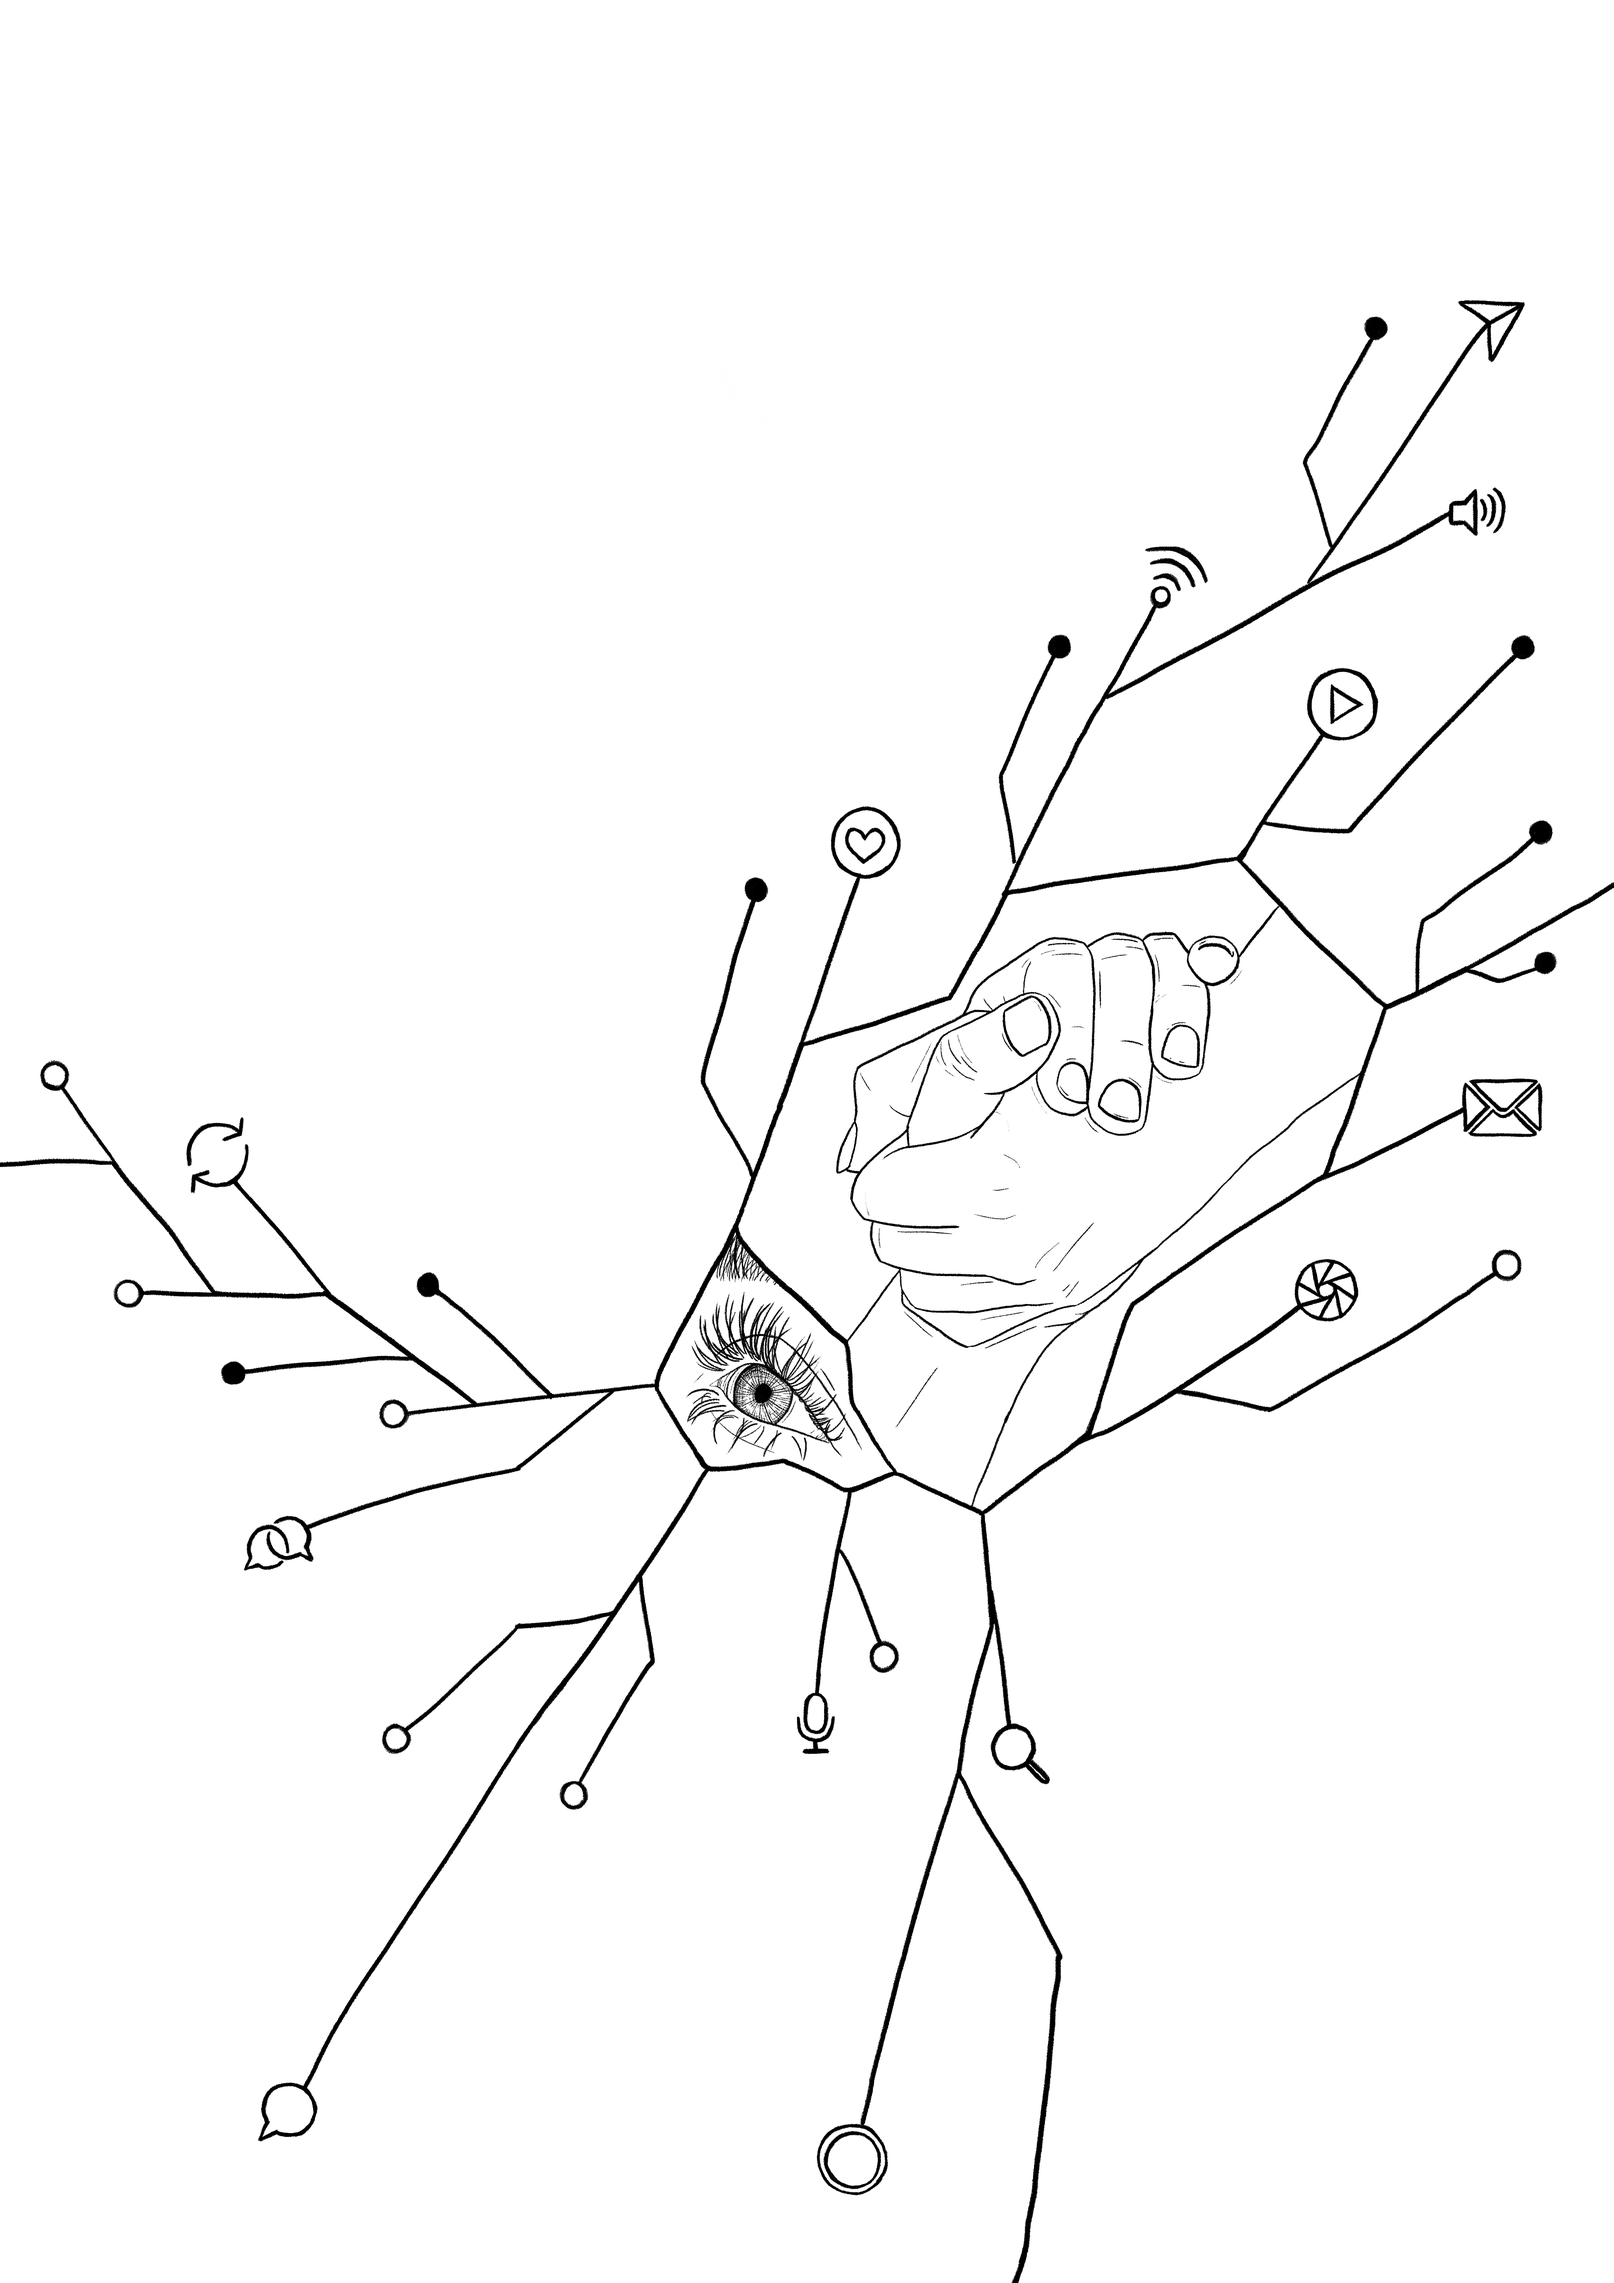
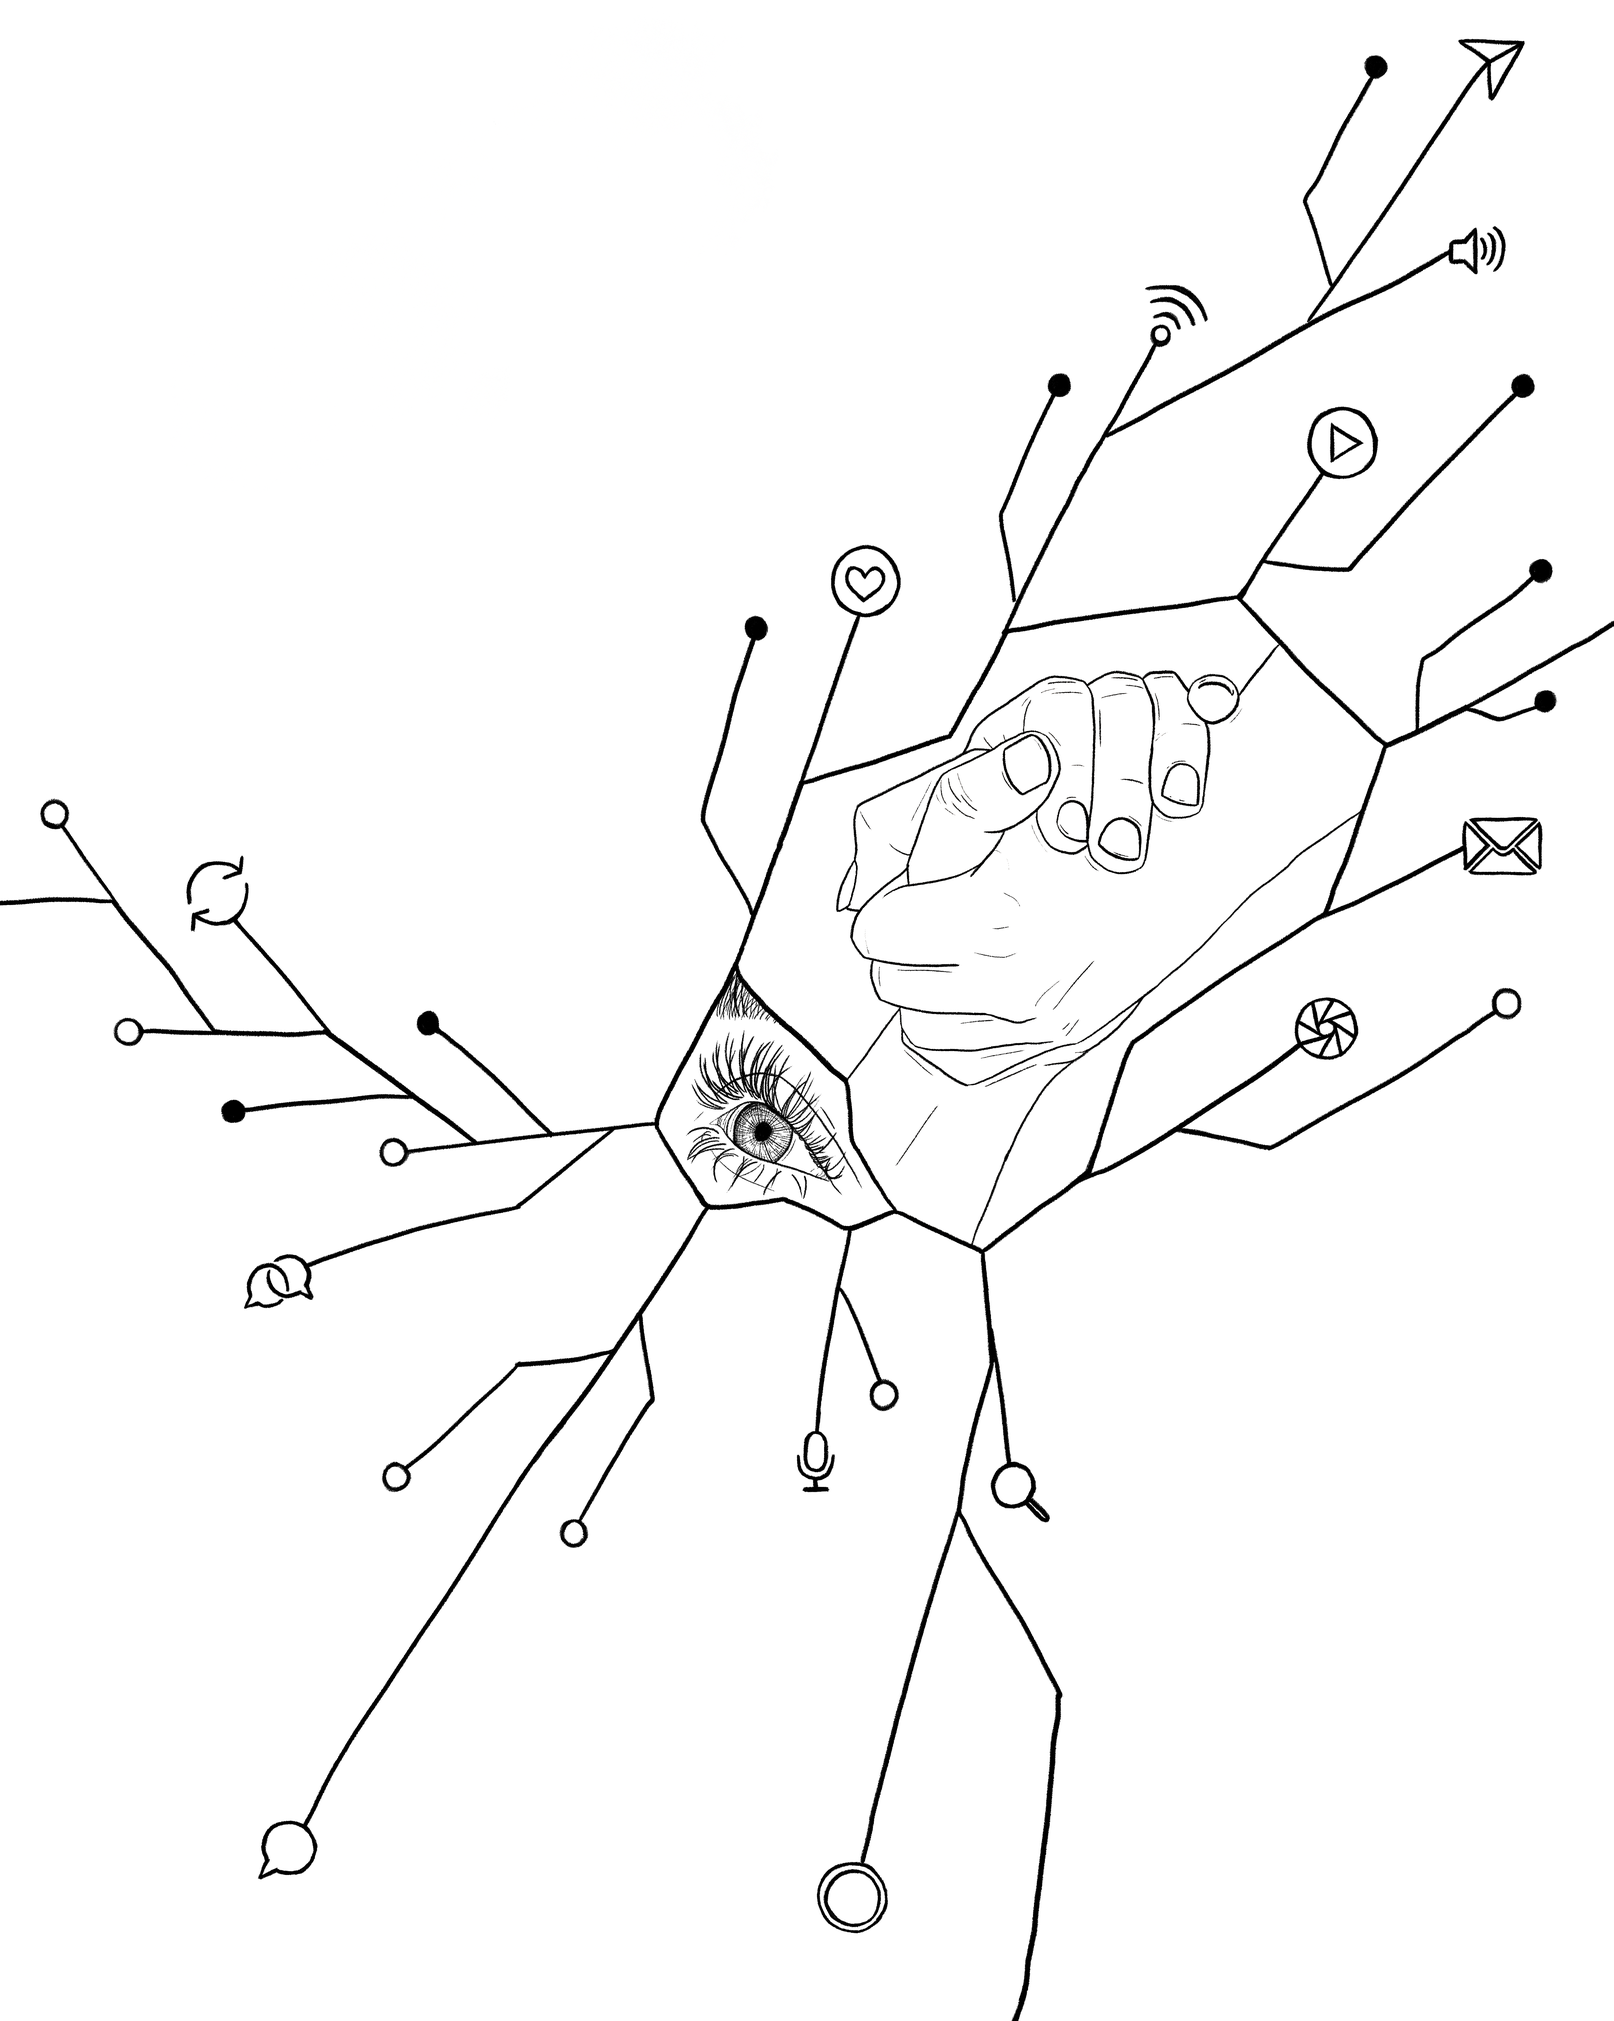
first commit

diff --git a/index.html b/index.html
@@ -30,6 +30,27 @@
       <!-- INSIDE FRONT HARD -->
       <div class="hard inner-front"></div>
 
+      <!-- AUTHORS / INTRO ART PAGE -->
+      <div class="parchment specimen-spread authors-page">
+        <div class="conteudo specimen-left">
+          <header class="specimen-head">
+            <div class="specimen-id">AUTHORS</div>
+            <h2 class="abs-title">ANONYMIZED</h2>
+          </header>
+
+          <figure class="specimen-hero">
+            <img id="introduction-art" src="intro-art.png" alt="Introduction artwork"
+                class="specimen-hero-img placa" />
+          </figure>
+
+          <p class="doc-by"><span class="notes-head">Institution:</span> [Anonymized]</p>
+        </div>
+
+        <div class="page-stamp" aria-hidden="true">LOT 1000 • 2025</div>
+        <i class="fx fx--mold" aria-hidden="true"></i>
+      </div>
+
+
       <!-- ABSTRACT (one page; left text ~62%, right image) -->
       <div class="parchment">
         <div class="conteudo specimen-right">
@@ -193,18 +214,6 @@
           </section>
         </div>
         <div class="margem" aria-hidden="true">field notes → introduction</div>
-        <div class="page-stamp" aria-hidden="true">LOT 1000 • 2025</div>
-        <i class="fx fx--mold" aria-hidden="true"></i>
-      </div>
-<!-- INTRODUCTION image -->
-      <div class="parchment specimen-spread">
-        <div class="conteudo specimen-left">
-          
-          <figure class="specimen-hero">
-            <img id="introduction art" src="intro-art.png"
-                 alt="Specimen 1: Aspirational AI Self-Imaging" class="specimen-hero-img placa" />
-          </figure>
-        </div>
         <div class="page-stamp" aria-hidden="true">LOT 1000 • 2025</div>
         <i class="fx fx--mold" aria-hidden="true"></i>
       </div>

diff --git a/style.css b/style.css
@@ -1040,3 +1040,39 @@ body .book-wrap .flipbook .page:not(.hard).odd::before{
 .taxonomy-tag.taxonomy--compact.tax-tight .taxonomy-grid dd p{
   margin: .15rem 0 !important;       /* minimal paragraph spacing */
 }
+
+/* AUTHORS page — clean layout, centered vertically, nudged right & up */
+.authors-page .conteudo{
+  display: grid;                      /* header | art | footer */
+  grid-template-rows: auto 1fr auto;
+  padding-top: 10px;
+  padding-bottom: 24px;
+}
+
+.authors-page .specimen-head{ 
+  margin-bottom: 4px;                 /* tighter header */
+}
+
+.authors-page .specimen-hero{
+  margin: 0;
+  min-height: 0;
+  display: grid;
+  place-items: center end;            /* center vertically, align right */
+}
+
+.authors-page .specimen-hero-img{
+  max-width: min(90%, 540px);
+  max-height: 90%;
+  width: auto; 
+  height: auto;
+  object-fit: contain;
+  object-position: center;
+  margin: 0;
+  transform: translate(10%, -7%);     /* → move right 10%, ↑ move up 7% */
+}
+
+/* Small screens: recentre and remove nudge */
+@media (max-width: 900px){
+  .authors-page .specimen-hero{ place-items: center; }
+  .authors-page .specimen-hero-img{ transform: none; max-width: 92%; }
+}
